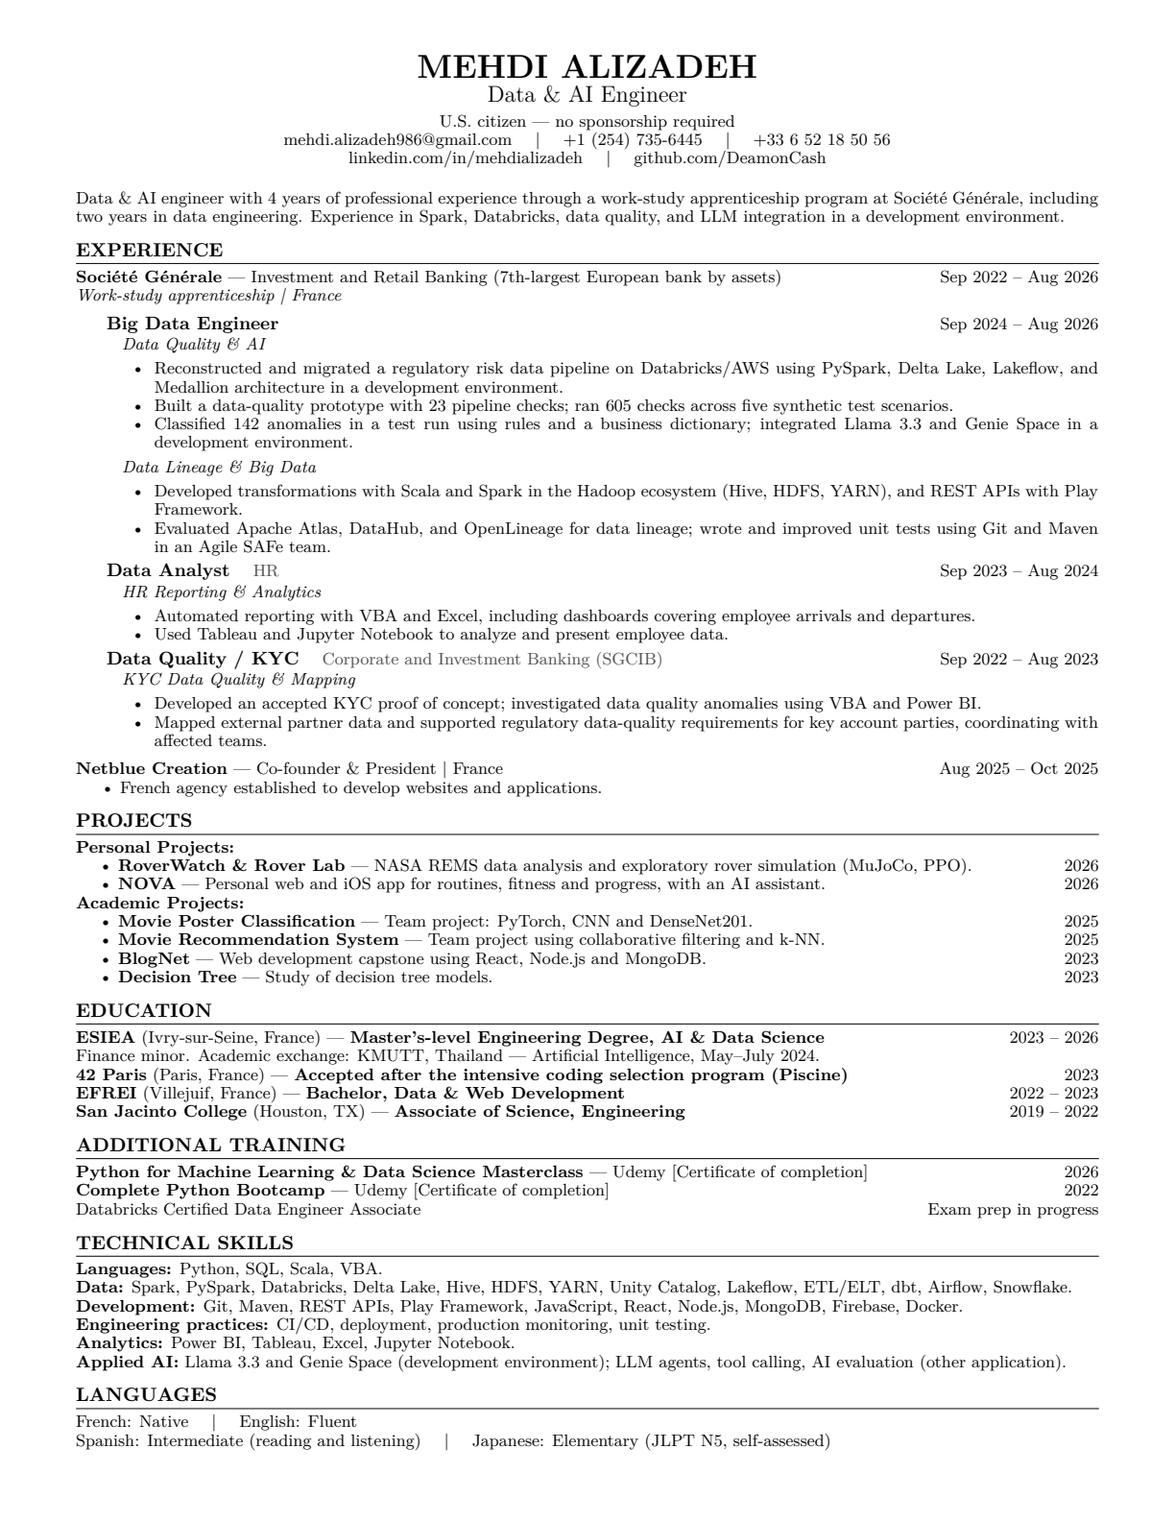
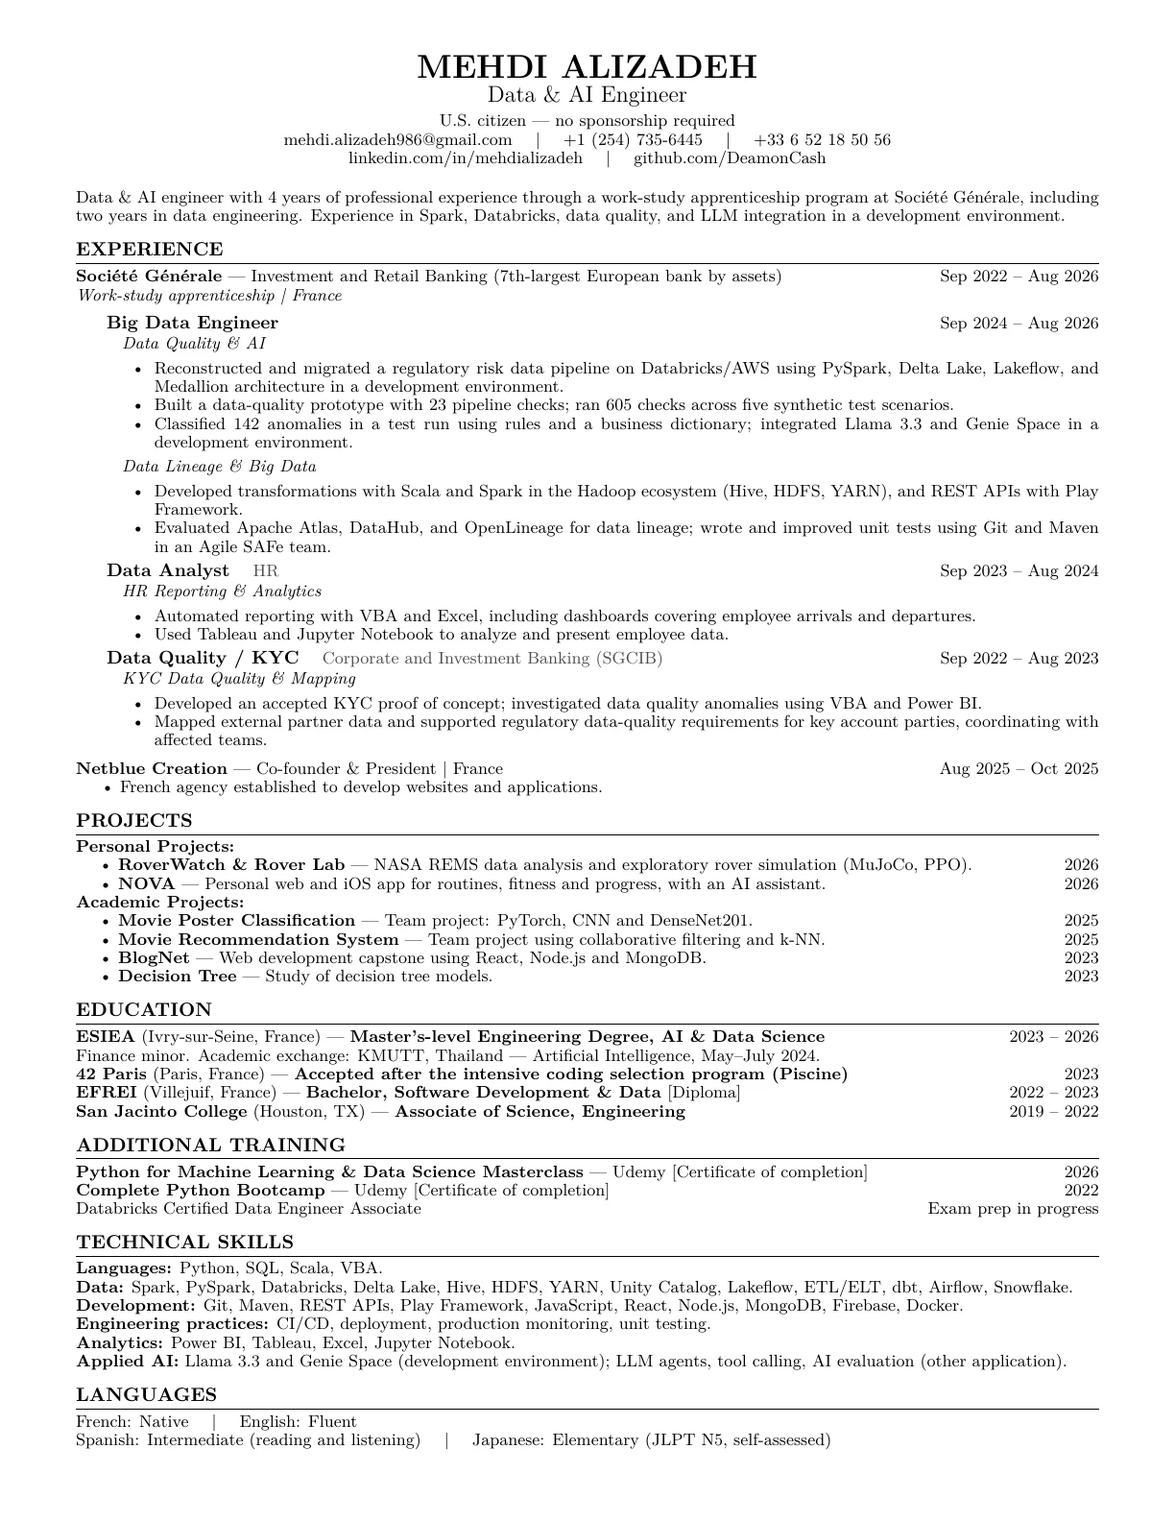
Add EFREI diploma and update résumé

diff --git a/index.html b/index.html
@@ -1,4 +1,4 @@
-<!doctype html><html lang="en"><head><meta charset="utf-8"><meta name="viewport" content="width=device-width,initial-scale=1"><meta name="description" content="Mehdi Alizadeh, Data & AI Engineer — portfolio preview."><title>Mehdi Alizadeh — Data & AI Engineer</title><link rel="stylesheet" href="style.css?v=nova-demo1"><style>.experience-projects{margin:24px 0 12px;max-width:850px}.experience-projects h4{font:12px Arial,sans-serif;text-transform:uppercase;letter-spacing:.12em;color:var(--blue);margin:0 0 12px}.experience-projects details{border-top:1px solid #85828a}.experience-projects details:last-child{border-bottom:1px solid #85828a}.experience-projects details summary{display:flex;justify-content:space-between;align-items:center;gap:16px;padding:14px 0;cursor:pointer;list-style:none;font-size:clamp(17px,1.4vw,21px)}.experience-projects details summary::-webkit-details-marker{display:none}.experience-projects details summary span{color:var(--blue)}.experience-projects details[open] summary span{transform:rotate(45deg)}.experience-project-body{padding:0 0 18px}.experience-project-body p{font-size:16px;line-height:1.55;margin:4px 0 10px}.experience-project-body small{font:12px/1.5 Arial,sans-serif;opacity:.72}</style></head><body>
+<!doctype html><html lang="en"><head><meta charset="utf-8"><meta name="viewport" content="width=device-width,initial-scale=1"><meta name="description" content="Mehdi Alizadeh, Data & AI Engineer — portfolio preview."><title>Mehdi Alizadeh — Data & AI Engineer</title><link rel="stylesheet" href="style.css?v=efrei-diploma1"><style>.experience-projects{margin:24px 0 12px;max-width:850px}.experience-projects h4{font:12px Arial,sans-serif;text-transform:uppercase;letter-spacing:.12em;color:var(--blue);margin:0 0 12px}.experience-projects details{border-top:1px solid #85828a}.experience-projects details:last-child{border-bottom:1px solid #85828a}.experience-projects details summary{display:flex;justify-content:space-between;align-items:center;gap:16px;padding:14px 0;cursor:pointer;list-style:none;font-size:clamp(17px,1.4vw,21px)}.experience-projects details summary::-webkit-details-marker{display:none}.experience-projects details summary span{color:var(--blue)}.experience-projects details[open] summary span{transform:rotate(45deg)}.experience-project-body{padding:0 0 18px}.experience-project-body p{font-size:16px;line-height:1.55;margin:4px 0 10px}.experience-project-body small{font:12px/1.5 Arial,sans-serif;opacity:.72}</style></head><body>
 <nav class="section-rail" aria-label="Section navigation"><a href="#projects"><span class="rail-dot"></span><span>Projects</span></a><a href="#experience"><span class="rail-dot"></span><span>Experience</span></a><a href="#education"><span class="rail-dot"></span><span>Education</span></a><a href="#training"><span class="rail-dot"></span><span>Training</span></a><a href="#resume"><span class="rail-dot"></span><span>Résumé</span></a><a href="#contact"><span class="rail-dot"></span><span>Contact</span></a></nav><div class="page"><header class="header"><a class="identity" href="#top"><span class="blue-line"></span><span><strong>Mehdi Alizadeh</strong><small>Data &amp; AI Engineer</small></span></a><nav aria-label="Main navigation"><a href="#experience">Experience</a><a href="#projects">Projects</a><a href="#education">Education</a><a href="#training">Training</a><a href="#resume">Résumé</a><a class="contact-trigger" href="#contact" aria-haspopup="dialog" aria-controls="contact-dialog">Contact</a></nav><button class="theme-toggle" type="button" aria-label="Switch to dark mode" aria-pressed="false"><span aria-hidden="true">☾</span><span class="theme-label">Dark</span></button></header>
 <main id="top"><section class="hero" aria-labelledby="hero-title"><div class="hero-copy"><p class="intro">Hi, I’m Mehdi.</p><h1 id="hero-title">Engineering<br>useful intelligence<span>.</span></h1><p class="keywords"><span class="word" aria-label="Data"><span class="letter-hit" aria-hidden="true"><span class="letter">D</span></span><span class="letter-hit" aria-hidden="true"><span class="letter">a</span></span><span class="letter-hit" aria-hidden="true"><span class="letter">t</span></span><span class="letter-hit" aria-hidden="true"><span class="letter">a</span></span></span> <i aria-hidden="true">/</i> <span class="word" aria-label="Software"><span class="letter-hit" aria-hidden="true"><span class="letter">S</span></span><span class="letter-hit" aria-hidden="true"><span class="letter">o</span></span><span class="letter-hit" aria-hidden="true"><span class="letter">f</span></span><span class="letter-hit" aria-hidden="true"><span class="letter">t</span></span><span class="letter-hit" aria-hidden="true"><span class="letter">w</span></span><span class="letter-hit" aria-hidden="true"><span class="letter">a</span></span><span class="letter-hit" aria-hidden="true"><span class="letter">r</span></span><span class="letter-hit" aria-hidden="true"><span class="letter">e</span></span></span> <i aria-hidden="true">/</i> <span class="word" aria-label="AI"><span class="letter-hit" aria-hidden="true"><span class="letter">A</span></span><span class="letter-hit" aria-hidden="true"><span class="letter">I</span></span></span></p><div class="short-line"></div><p class="tagline">Data and software engineering for real-world impact.<br><small>U.S. citizen · No sponsorship required</small></p><div class="hero-actions"><a class="hero-social" href="https://www.linkedin.com/in/mehdializadeh/">LinkedIn ↗</a><a class="hero-social" href="https://github.com/DeamonCash">GitHub ↗</a><a class="hero-social" href="#resume">Résumé ↓</a><a class="hero-social" href="mailto:mehdi.alizadeh986@gmail.com?subject=Hello%20Mehdi">Email me ↗</a></div></div><div class="visual"><a class="meet contact-trigger" href="#contact" aria-haspopup="dialog" aria-controls="contact-dialog">Meet Mehdi <span>→</span></a><img class="planet" src="assets/planet.png" alt=""><img class="portrait" src="assets/portrait-mehdi-macbook-realiste.png" alt="Illustrative portrait of Mehdi at a laptop"></div></section>
 <section id="projects" class="section"><div class="short-line"></div><div class="heading-line"><h2>Selected Projects</h2><p>Data, products &amp; intelligent systems</p></div><div class="rows">
@@ -14,7 +14,25 @@
 <article class="project"><button class="project-toggle" aria-expanded="false" aria-controls="project-03"><span class="number">03</span><span class="row-label"><strong>Movie Poster Classification</strong><small>Academic team project · Deep learning · 2025</small></span><span class="arrow" aria-hidden="true">↗</span></button><div class="project-panel" id="project-03" aria-hidden="true"><div class="project-panel-inner"><div class="project-content"><div class="placeholder"><span>COMPUTER VISION · TEAM PROJECT</span><strong>Movie Poster Classification</strong><div class="fake-lines">PYTORCH / CNN / DENSENET201</div></div><div class="project-description"><p>In a five-person academic project, we compared convolutional neural networks and pretrained models to classify movie posters. The project explored computer vision using PyTorch and DenseNet201.</p><small class="repo-note">Academic team project · Public code not yet available</small></div></div></div></div></article>
 </div></section>
 <section class="section" id="experience"><div class="short-line"></div><h2>Experience</h2><div class="employer-heading"><h3>Société Générale</h3><p>Work-study apprenticeship · France · 2022–2026</p></div><div class="experience-list"><details><summary><span>2024 — 2026</span><strong>Big Data Engineer</strong><b>+</b></summary><div class="exp-body"><p>Reconstructed and migrated a regulatory risk pipeline in a development environment using Databricks, AWS, PySpark, Delta Lake, Lakeflow and Medallion architecture.</p><p>Built a data quality prototype with 23 pipeline checks and ran 605 checks across five synthetic test scenarios. Classified 142 anomalies in a test run and integrated Llama 3.3 and Genie Space in a development environment.</p><p>Developed transformations with Scala and Spark, REST APIs with Play Framework, evaluated data lineage tools and improved unit tests.</p><div class="experience-projects"><h4>Selected projects</h4><details><summary>2026 · Data Quality &amp; AI prototype <span>+</span></summary><div class="experience-project-body"><p>Reconstructed a regulatory risk data pipeline in a development environment and built automated data-quality checks with Databricks, PySpark and Delta Lake.</p><p>Defined 23 pipeline checks and ran 605 check executions across five synthetic scenarios. Explored Llama 3.3 and Genie Space to support anomaly diagnostics.</p><small>Public summary based on the 2026 engineering presentation · Test environment</small></div></details><details><summary>2025 · Data Lineage &amp; Big Data Engineering <span>+</span></summary><div class="experience-project-body"><p>Studied data-lineage approaches, evaluated tools, and contributed improvements to distributed data workflows and internal APIs.</p><p>Worked with Scala, Spark, Hive, HDFS, Git and Maven, using code reviews and unit tests.</p><small>Public summary based on the 2025 engineering presentation</small></div></details></div></div></details><details><summary><span>2023 — 2024</span><strong>Data Analyst — HR</strong><b>+</b></summary><div class="exp-body"><p>Automated HR reporting with VBA and Excel and used Tableau and Jupyter Notebook to analyze and present employee data.</p><div class="experience-projects"><h4>Selected project</h4><details><summary>2023–2024 · HR Reporting &amp; Data Analysis <span>+</span></summary><div class="experience-project-body"><p>Automated recurring HR reporting with VBA and Excel, including dashboards on employee arrivals and departures. Used Tableau and Jupyter Notebook to analyze and present data.</p><small>Public project summary · Original presentation not yet located</small></div></details></div></div></details><details><summary><span>2022 — 2023</span><strong>Data Quality / KYC</strong><b>+</b></summary><div class="exp-body"><p>Developed an accepted KYC proof of concept, investigated data quality anomalies, mapped external partner data and supported regulatory requirements.</p><div class="experience-projects"><h4>Selected project</h4><details><summary>2022–2023 · KYC Data Quality &amp; Mapping <span>+</span></summary><div class="experience-project-body"><p>Developed an accepted KYC proof of concept, investigated data-quality anomalies, and mapped external partner data to support regulatory requirements.</p><p>Used VBA and Power BI in coordination with affected teams.</p><small>Public summary based on the 2023 academic presentation</small></div></details></div></div></details></div><div class="employer-heading"><h3>Netblue Creation</h3><p>French agency · 2025</p></div><div class="experience-list"><details><summary><span>2025</span><strong>Co-founder &amp; President</strong><b>+</b></summary><div class="exp-body"><p>French agency established to develop websites and applications.</p></div></details></div></section>
-<section class="section" id="education"><div class="short-line"></div><h2>Education</h2><div class="education-list"><div><span>2023 — 2026</span><p><strong>ESIEA (Ivry-sur-Seine, France)</strong><br>Master’s-level Engineering Degree, AI &amp; Data Science</p></div><div><span>2023</span><p><strong>42 Paris (Paris, France)</strong><br>Selected for admission after an intensive coding selection program</p></div><div><span>2022 — 2023</span><p><strong>EFREI (Villejuif, France)</strong><br>Bachelor, Data &amp; Web Development</p></div><div><span>2019 — 2022</span><p><strong>San Jacinto College (Houston, TX)</strong><br>Associate of Science, Engineering</p></div></div></section>
+<section class="section" id="education"><div class="short-line"></div><h2>Education</h2><div class="education-list"><div><span>2023 — 2026</span><p><strong>ESIEA (Ivry-sur-Seine, France)</strong><br>Master’s-level Engineering Degree, AI &amp; Data Science</p></div><div><span>2023</span><p><strong>42 Paris (Paris, France)</strong><br>Selected for admission after an intensive coding selection program</p></div><div><span>2022 — 2023</span><p><strong>EFREI (Villejuif, France)</strong><br>Bachelor, Software Development &amp; Data <a class="education-diploma-link" href="#efrei-diploma">[Diploma]</a></p></div><div><span>2019 — 2022</span><p><strong>San Jacinto College (Houston, TX)</strong><br>Associate of Science, Engineering</p></div></div>
+  <article class="credential" id="efrei-diploma" tabindex="-1" aria-labelledby="efrei-diploma-title">
+    <h3 id="efrei-diploma-title">EFREI diploma</h3>
+    <div class="credential-switch" role="group" aria-label="Diploma language">
+      <button type="button" aria-pressed="true" aria-controls="efrei-diploma-en">English</button>
+      <button type="button" aria-pressed="false" aria-controls="efrei-diploma-fr">Original (French)</button>
+    </div>
+    <div id="efrei-diploma-en">
+      <p class="credential-note">Unofficial English translation</p>
+      <p><strong>Bachelor, Software Development &amp; Data</strong><br>EFREI Paris · Academic year 2022–2023</p>
+      <p>Based on the certification panel’s decision for the 2022–2023 academic year, Frédéric Meunier, Director General of EFREI Paris, certifies that Mehdi Alizadeh met all the theoretical and practical assessment requirements for the Bachelor Dev &amp; Data diploma.</p>
+      <p>The program represents three years of postsecondary study (Bac+3) and certifies completion of 180 ECTS credits.</p>
+      <p class="credential-note">Issued in Villejuif, France, on July 7, 2023.</p>
+    </div>
+    <div id="efrei-diploma-fr" lang="fr" hidden>
+      <img src="assets/efrei-diploma-fr.webp" width="1550" height="1102" loading="lazy" alt="Diplôme Bachelor Dev &amp; Data décerné à Mehdi Alizadeh par EFREI Paris le 7 juillet 2023. Données personnelles et signatures masquées.">
+    </div>
+  </article>
+</section>
 <section class="section" id="training"><div class="short-line"></div><h2>Training</h2><p class="section-note">Completed courses and current exam preparation.</p><h3 class="training-heading">Courses &amp; certificates</h3><ul class="cert-list">
 <li class="cert-item"><button class="cert-toggle" type="button" aria-expanded="false" aria-controls="cert-python"><span class="cert-status">Completed</span><strong>Complete Python Bootcamp</strong><span class="cert-arrow" aria-hidden="true">↗</span></button><div class="cert-reveal" id="cert-python" aria-hidden="true"><div class="cert-reveal-inner"><div class="cert-preview"><div class="cert-visual"><a href="https://udemy-certificate.s3.amazonaws.com/pdf/UC-1d11c0c8-5aeb-42a5-9d2f-fe4a362cbb2e.pdf" target="_blank" rel="noopener noreferrer"><img src="https://udemy-certificate.s3.amazonaws.com/image/UC-1d11c0c8-5aeb-42a5-9d2f-fe4a362cbb2e.jpg" alt="Complete Python Bootcamp certificate of completion" style="width:100%;height:auto;object-fit:contain"></a></div><div class="cert-message"><span>UDEMY · NOVEMBER 2022</span><strong>Certificate of completion</strong><p>The Complete Python Bootcamp From Zero to Hero in Python · Jose Portilla and Pierian Training.</p><p><a class="credential-link" href="https://www.udemy.com/certificate/UC-1d11c0c8-5aeb-42a5-9d2f-fe4a362cbb2e/" target="_blank" rel="noopener noreferrer">View verified certificate ↗</a> · <a class="credential-link" href="https://udemy-certificate.s3.amazonaws.com/pdf/UC-1d11c0c8-5aeb-42a5-9d2f-fe4a362cbb2e.pdf" target="_blank" rel="noopener noreferrer">View PDF ↗</a></p></div></div></div></div></li>
 <li class="cert-item"><button class="cert-toggle" type="button" aria-expanded="false" aria-controls="training-ml"><span class="cert-status">Completed</span><strong>Python for Machine Learning &amp; Data Science Masterclass</strong><span class="cert-arrow" aria-hidden="true">↗</span></button><div class="cert-reveal" id="training-ml" aria-hidden="true"><div class="cert-reveal-inner"><div class="cert-preview"><div class="cert-visual"><a href="https://udemy-certificate.s3.amazonaws.com/pdf/UC-3bb00277-aadc-471a-bc36-e1c55f91fa7e.pdf" target="_blank" rel="noopener noreferrer"><img src="https://udemy-certificate.s3.amazonaws.com/image/UC-3bb00277-aadc-471a-bc36-e1c55f91fa7e.jpg" alt="Python for Machine Learning and Data Science certificate of completion" style="width:100%;height:auto;object-fit:contain"></a></div><div class="cert-message"><span>UDEMY · CERTIFICATE ISSUED NOVEMBER 2026</span><strong>Certificate of completion</strong><p>Course covering Python, machine learning and data science.</p><p><a class="credential-link" href="https://www.udemy.com/certificate/UC-3bb00277-aadc-471a-bc36-e1c55f91fa7e/" target="_blank" rel="noopener noreferrer">View verified certificate ↗</a> · <a class="credential-link" href="https://udemy-certificate.s3.amazonaws.com/pdf/UC-3bb00277-aadc-471a-bc36-e1c55f91fa7e.pdf" target="_blank" rel="noopener noreferrer">View PDF ↗</a></p></div></div></div></div></li>
@@ -26,13 +44,13 @@
       <h2 id="resume-title">Résumé</h2>
       <p class="resume-name">Mehdi Alizadeh</p>
       <p class="resume-meta">Data &amp; AI Engineer<br>1 page</p>
-      <a class="project-repo" href="resume.pdf" download="Mehdi-Alizadeh-Resume.pdf">Download PDF <span aria-hidden="true">↓</span></a>
+      <a class="project-repo" href="resume.pdf?v=efrei-diploma1" download="Mehdi-Alizadeh-Resume.pdf">Download PDF <span aria-hidden="true">↓</span></a>
     </div>
     <figure class="resume-preview">
       <button type="button" class="resume-expand" aria-label="Enlarge résumé preview" aria-haspopup="dialog" aria-controls="resume-viewer" hidden>
         <svg width="18" height="18" viewBox="0 0 24 24" fill="none" stroke="currentColor" stroke-width="1.8" aria-hidden="true"><path d="M8 3H3v5m13-5h5v5m0 8v5h-5M3 16v5h5"/></svg>
       </button>
-      <img src="assets/resume-preview.webp" alt="Preview of Mehdi Alizadeh’s résumé" width="1224" height="1584" loading="lazy">
+      <img src="assets/resume-preview.webp?v=efrei-diploma1" alt="Preview of Mehdi Alizadeh’s résumé" width="1224" height="1584" loading="lazy">
     </figure>
   </div>
   <dialog class="resume-viewer" id="resume-viewer" aria-labelledby="resume-viewer-title">
@@ -40,7 +58,10 @@
       <h3 id="resume-viewer-title">Résumé</h3>
       <form method="dialog"><button type="submit" class="resume-close" aria-label="Close résumé preview" autofocus>×</button></form>
     </div>
-    <img src="assets/resume-preview.webp" alt="Enlarged preview of Mehdi Alizadeh’s résumé" width="1224" height="1584" loading="lazy">
+    <div class="resume-viewer-page">
+      <img src="assets/resume-preview.webp?v=efrei-diploma1" alt="Enlarged preview of Mehdi Alizadeh’s résumé" width="1224" height="1584" loading="lazy">
+      <a class="resume-diploma-link" href="#efrei-diploma" aria-label="View EFREI diploma"></a>
+    </div>
   </dialog>
 </section>
 <section class="contact-section" id="contact"><div class="short-line"></div><span class="eyebrow">LET’S CONNECT</span><h2>Let’s build something useful<span>.</span></h2><p>Data &amp; AI engineer with experience across data engineering and quality. Interested in applied AI, intelligent products, finance and space.</p><div class="contact-links"><a class="contact-email" href="mailto:mehdi.alizadeh986@gmail.com?subject=Hello%20Mehdi">Email me ↗</a><a href="https://www.linkedin.com/in/mehdializadeh/">LinkedIn ↗</a><a href="https://github.com/DeamonCash">GitHub ↗</a></div><small>mehdi.alizadeh986@gmail.com</small></section></main><footer><span>Mehdi Alizadeh</span><span>Data · Software · AI</span></footer></div><dialog class="contact-drawer" id="contact-dialog" aria-labelledby="contact-dialog-title">
@@ -58,4 +79,4 @@
     </div>
   </div>
 </dialog>
-<script src="app.js?v=nova-demo1"></script></body></html>
+<script src="app.js?v=efrei-diploma1"></script></body></html>

diff --git a/style.css b/style.css
@@ -149,3 +149,20 @@ html[data-theme="dark"] .resume-preview{border-color:#464b5b}
 .nova-figure[hidden]{display:none}
 .nova-video-view video{display:block;box-sizing:border-box;width:auto;max-width:100%;max-height:440px;margin:0 auto;border:7px solid #22232d;border-radius:30px;outline:1px solid #696a76;background:#0d0916}
 .nova-video-view figcaption{text-align:center;margin-top:12px}
+
+.education-diploma-link{white-space:nowrap}
+.credential{margin-top:28px;padding:clamp(16px,3vw,32px);border:1px solid color-mix(in srgb,var(--ink) 25%,var(--paper));border-radius:7px;scroll-margin-top:24px}
+.credential h3{font-size:clamp(23px,3vw,32px);margin:0 0 12px}
+.credential p{font-size:clamp(16px,1.3vw,19px);line-height:1.55;max-width:72ch;margin:0 0 12px}
+.credential p:last-child{margin-bottom:0}
+.credential .credential-note{font:14px/1.5 Arial,sans-serif}
+.credential-switch{display:flex;flex-wrap:wrap;gap:8px;margin:0 0 18px}
+.credential-switch button{font:15px/1.25 Arial,sans-serif;padding:10px 14px;min-height:44px;color:var(--ink);background:transparent;border:1px solid color-mix(in srgb,var(--ink) 40%,var(--paper));border-radius:5px;cursor:pointer}
+.credential-switch button[aria-pressed="true"]{border-color:var(--blue);box-shadow:inset 0 -2px var(--blue)}
+.credential-switch button:focus-visible{outline:2px solid var(--blue);outline-offset:3px}
+.credential img{display:block;width:min(100%,820px);height:auto}
+.resume-viewer-page{position:relative}
+.resume-diploma-link{position:absolute;left:56.804%;top:71.384%;width:6.278%;height:1.107%}
+.resume-diploma-link:hover{outline:2px solid var(--blue);outline-offset:2px}
+
+.resume-viewer-bar{z-index:1}

diff --git a/app.js b/app.js
@@ -96,7 +96,15 @@ if (resumeViewer && resumeExpand && typeof resumeViewer.showModal === 'function'
     resumeViewer.showModal();
     resumeViewer.scrollTop = 0;
   });
-  resumeViewer.addEventListener('close', () => resumeExpand.focus({ preventScroll: true }));
+  const resumeDiplomaLink = resumeViewer.querySelector('.resume-diploma-link');
+  resumeDiplomaLink.addEventListener('click', () => resumeViewer.close('diploma'));
+  resumeViewer.addEventListener('close', () => {
+    const target = resumeViewer.returnValue === 'diploma'
+      ? document.getElementById('efrei-diploma')
+      : resumeExpand;
+    target.focus({ preventScroll: true });
+    resumeViewer.returnValue = '';
+  });
 }
 
 // Switch between the NOVA prototype image and its recorded app demo.
@@ -124,5 +132,19 @@ document.querySelector('[aria-controls="project-02"]').addEventListener('click',
 for (const button of toggles) {
   if (button.getAttribute('aria-controls') !== 'project-02') {
     button.addEventListener('click', () => novaDemo.pause());
+  }
+}
+
+
+for (const credential of document.querySelectorAll('.credential')) {
+  const buttons = credential.querySelectorAll('.credential-switch button');
+  for (const selected of buttons) {
+    selected.addEventListener('click', () => {
+      for (const button of buttons) {
+        const active = button === selected;
+        button.setAttribute('aria-pressed', String(active));
+        document.getElementById(button.getAttribute('aria-controls')).hidden = !active;
+      }
+    });
   }
 }
